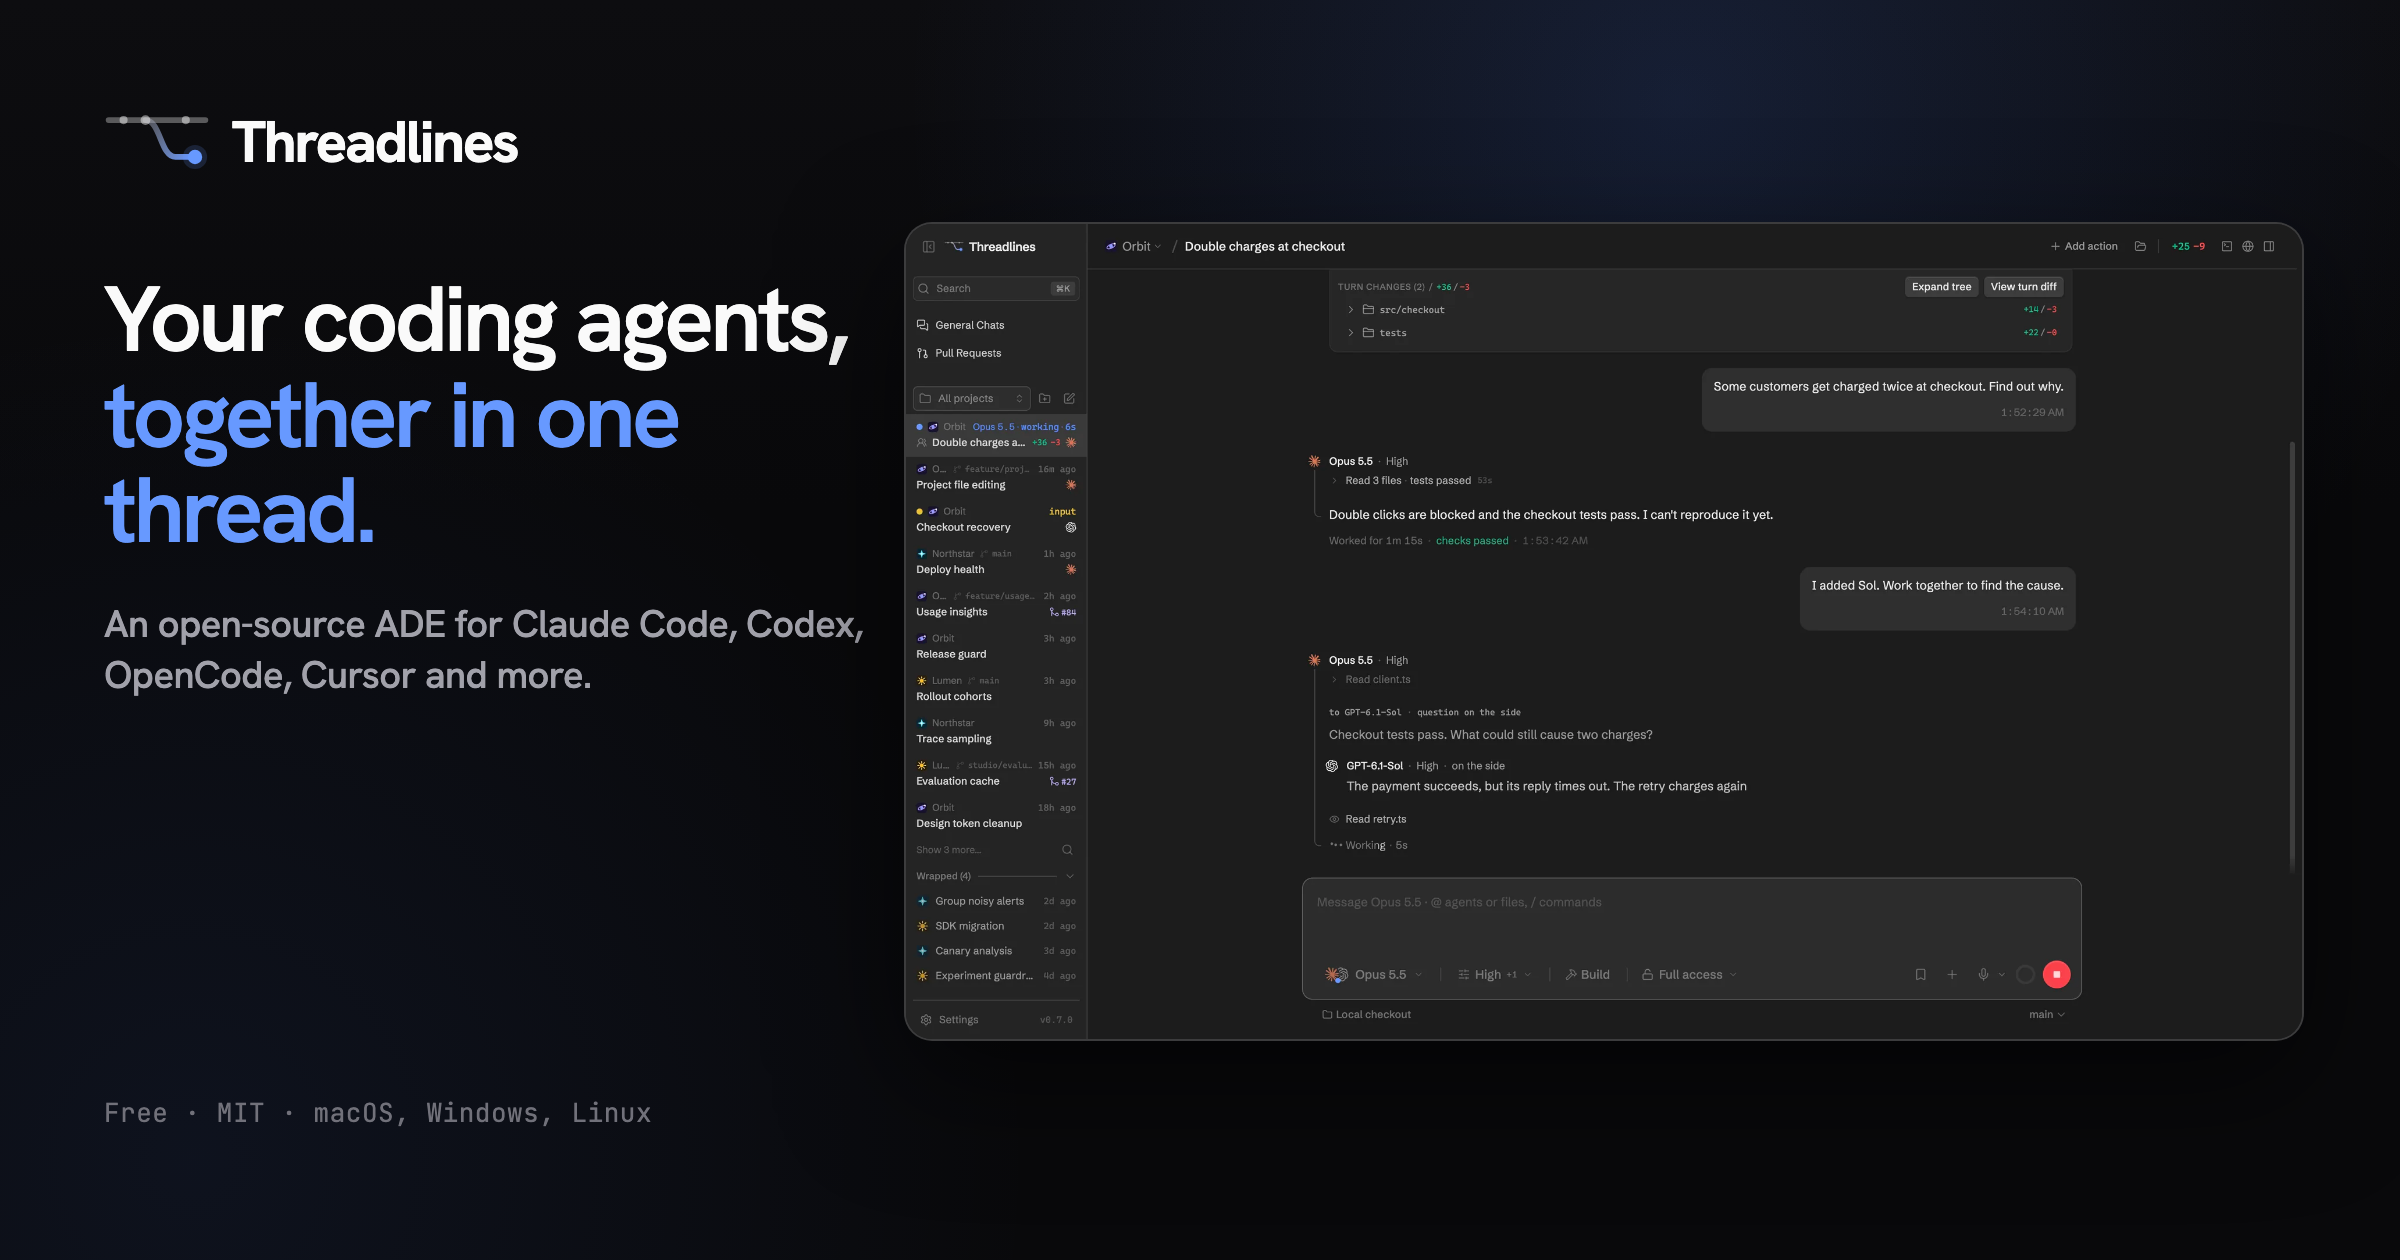
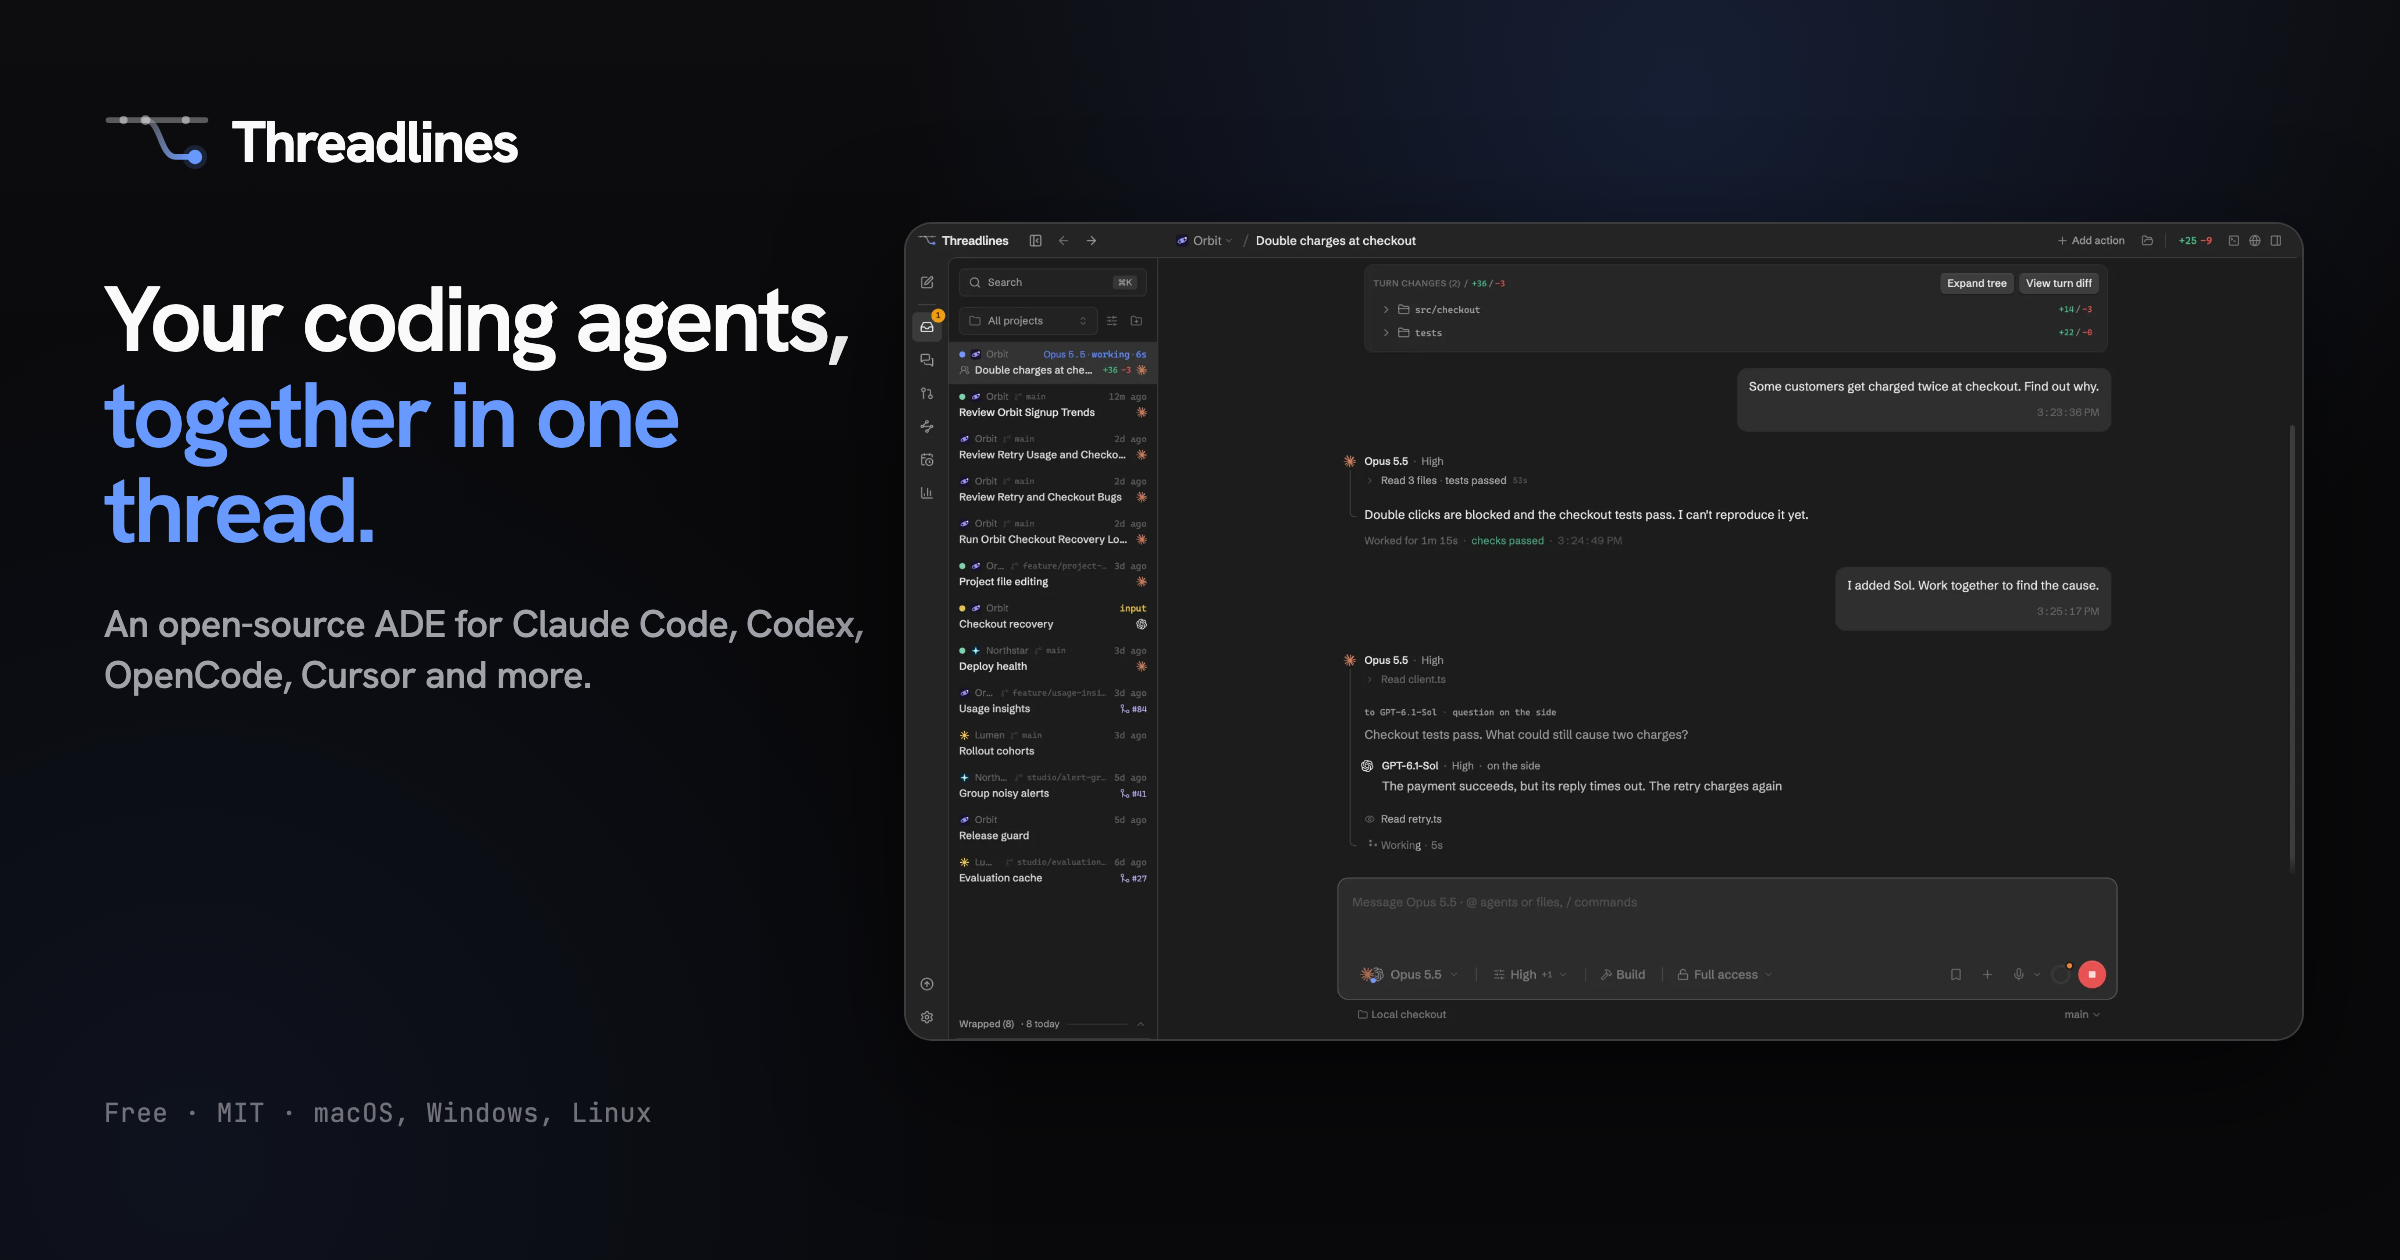
docs: the README picture and GitHub pages show 0.8.0 (#715)
* docs: the README picture and GitHub pages show 0.8.0

The README header (also the site's social card) still showed the 0.7 layout:
two-agents.webp was retaken with the left bar in #691, but og.png was never
re-rendered from og-card.html. Re-render it, and add a 1280x640 crop for
GitHub's social preview, which is uploaded by hand in repo settings.

While here, the other GitHub-facing pages that fell behind:
- KEYBINDINGS.md was missing a dozen default shortcuts (find, right panel,
  sidebar, Fleet, Scheduled, back/forward, thread and model jumps), pointed at
  ~/.threadlines/keybindings.json instead of userdata/, and linked the old
  location of DEFAULT_KEYBINDINGS. It now matches packages/shared and names
  Settings › Keybindings and the modelPickerOpen context key.
- The bug form's version and environment hints asked for Vite+ 0.2.4 and an
  unsupported Node 24.10; they now ask for what an app user can see.
- The Docker guide's pin example uses 0.8.0 instead of 0.3.3.

* docs(brand): rebuild the X banner from the 0.8.0 screenshot

x-banner-workspace.png still used the 0.7 capture of two-agents.webp. Same
crop as before (Opus asking Sol on the side); the left bar's icons sit above
that band.

* docs(brand): X banner puts the words left and the app right

The banner showed the middle of the window, where the new left bar is an
empty strip because its icons sit higher up. It now matches og-card.html:
[…]

diff --git a/docs/brand/social/x-banner-workspace.html b/docs/brand/social/x-banner-workspace.html
@@ -2,7 +2,12 @@
 <html>
   <head>
     <meta charset="utf-8" />
-    <!-- The X profile banner. Render at 1500x500 with device scale 2 and save as x-banner-workspace.png. -->
+    <!--
+      The X profile banner. Render at 1500x500 with device scale 2 and save as
+      x-banner-workspace.png. Re-render whenever two-agents.webp changes; Will uploads it
+      to X by hand. Words on the left and the app on the right, like og-card.html. X puts
+      the profile picture over the bottom-left corner, so that corner stays empty.
+    -->
     <link
       href="https://fonts.googleapis.com/css2?family=Hanken+Grotesk:wght@500;600;700&display=swap"
       rel="stylesheet"
@@ -39,14 +44,12 @@
       }
       .masthead {
         position: absolute;
-        top: 34px;
-        right: 62px;
+        top: 56px;
         left: 62px;
         display: flex;
-        height: 52px;
-        align-items: center;
-        justify-content: space-between;
-        gap: 32px;
+        width: 470px;
+        flex-direction: column;
+        gap: 26px;
       }
       .brand {
         display: flex;
@@ -65,20 +68,21 @@
       }
       .positioning {
         color: rgba(250, 250, 250, 0.7);
-        font-size: 22px;
+        font-size: 34px;
         font-weight: 500;
-        letter-spacing: -0.018em;
-        white-space: nowrap;
+        line-height: 1.18;
+        letter-spacing: -0.025em;
       }
       .positioning strong {
+        display: block;
         color: oklch(0.7 0.17 264);
         font-weight: 600;
       }
       .window {
         position: absolute;
-        left: 62px;
-        top: 106px;
-        width: 1376px;
+        left: 560px;
+        top: 48px;
+        width: 878px;
         border-radius: 14px 14px 0 0;
         overflow: hidden;
         border: 1px solid rgba(255, 255, 255, 0.16);
@@ -90,12 +94,11 @@
       .window {
         bottom: 0;
       }
-      /* Shows the middle of the shot: Opus asking GPT-6.1-Sol on the side, and Sol's answer. */
+      /* Shows the top of the shot: the left bar, then Opus asking GPT-6.1-Sol on the side and Sol's answer. */
       .window img {
         display: block;
         width: 100%;
         height: auto;
-        margin-top: -300px;
       }
     </style>
   </head>

diff --git a/docs/brand/social/og-card.html b/docs/brand/social/og-card.html
@@ -2,7 +2,12 @@
 <!--
   The site's social card (apps/marketing/public/og.png) and the README header.
   Render at 2400x1260, device scale 1, and save over og.png. The screenshot is the
-  full-window studio capture (public/Screenshots/app/two-agents.webp).
+  full-window studio capture (public/Screenshots/app/two-agents.webp), so re-render
+  whenever that capture changes.
+
+  GitHub's social preview (repo Settings › General › Social preview, uploaded by
+  hand) is the same render cropped to 2400x1200 around the middle and scaled to
+  1280x640: docs/brand/social/github-social-preview.png.
 -->
 <html lang="en">
   <head>

diff --git a/KEYBINDINGS.md b/KEYBINDINGS.md
@@ -1,8 +1,8 @@
 # Keybindings
 
-Threadlines reads keybindings from:
+Change shortcuts in **Settings › Keybindings**, or edit the file it saves to:
 
-- `~/.threadlines/keybindings.json`
+- `~/.threadlines/userdata/keybindings.json` (under `THREADLINES_HOME` if you set it)
 
 The file must be a JSON array of rules:
 
@@ -23,16 +23,31 @@ See the full schema for more details: [`packages/contracts/src/keybindings.ts`](
   { "key": "mod+d", "command": "terminal.split", "when": "terminalFocus" },
   { "key": "mod+n", "command": "terminal.new", "when": "terminalFocus" },
   { "key": "mod+w", "command": "terminal.close", "when": "terminalFocus" },
+  { "key": "mod+f", "command": "terminal.find", "when": "terminalFocus" },
+  { "key": "mod+d", "command": "diff.toggle", "when": "!terminalFocus" },
   { "key": "mod+k", "command": "commandPalette.toggle", "when": "!terminalFocus" },
   { "key": "mod+n", "command": "chat.new", "when": "!terminalFocus" },
   { "key": "mod+shift+o", "command": "chat.new", "when": "!terminalFocus" },
   { "key": "mod+shift+n", "command": "chat.newLocal", "when": "!terminalFocus" },
+  { "key": "mod+f", "command": "chat.find", "when": "!terminalFocus" },
+  { "key": "mod+shift+m", "command": "modelPicker.toggle", "when": "!terminalFocus" },
   { "key": "mod+s", "command": "composer.stash", "when": "!terminalFocus" },
-  { "key": "mod+o", "command": "editor.openFavorite" }
+  { "key": "mod+o", "command": "editor.openFavorite" },
+  { "key": "mod+b", "command": "sidebar.toggle", "when": "!terminalFocus" },
+  { "key": "mod+shift+f", "command": "navigate.fleet", "when": "!terminalFocus" },
+  { "key": "mod+shift+s", "command": "navigate.scheduled", "when": "!terminalFocus" },
+  { "key": "mod+[", "command": "navigate.back", "when": "!terminalFocus" },
+  { "key": "mod+]", "command": "navigate.forward", "when": "!terminalFocus" },
+  { "key": "mod+shift+[", "command": "thread.previous" },
+  { "key": "mod+shift+]", "command": "thread.next" }
 ]
 ```
 
-For most up to date defaults, see [`DEFAULT_KEYBINDINGS` in `apps/server/src/keybindings.ts`](apps/server/src/keybindings.ts)
+`mod+1` through `mod+9` run `thread.jump.1` through `thread.jump.9`. While the
+model picker is open (`"when": "modelPickerOpen"`), the same keys run
+`modelPicker.jump.1` through `modelPicker.jump.9` instead.
+
+The source of truth is [`DEFAULT_KEYBINDINGS` in `packages/shared/src/keybindings.ts`](packages/shared/src/keybindings.ts).
 
 ## Configuration
 
@@ -52,11 +67,22 @@ Invalid rules are ignored. Invalid config files are ignored. Warnings are logged
 - `terminal.split`: split terminal (in focused terminal context by default)
 - `terminal.new`: create new terminal (in focused terminal context by default)
 - `terminal.close`: close/kill the focused terminal (in focused terminal context by default)
+- `terminal.find`: search the focused terminal's output
+- `diff.toggle`: show or hide the panel on the right of a thread (changes, browser, files and the other tabs)
 - `commandPalette.toggle`: open or close the global command palette
 - `chat.new`: create a new chat thread where the "Start in" setting says (Settings › Threads, default `local`). With `local`, a thread started from one in a worktree stays in that worktree
 - `chat.newLocal`: create a new chat thread for the active project from the "Start in" setting alone, never continuing the active thread's worktree
+- `chat.find`: find text in the current chat
+- `modelPicker.toggle`: open or close the composer's model picker
+- `modelPicker.jump.1` … `modelPicker.jump.9`: pick the model at that position in the open model picker
 - `composer.stash`: stash the composer's prompt for later; with an empty composer, open the stash list
 - `editor.openFavorite`: open current project/worktree in the last-used editor
+- `sidebar.toggle`: show or hide the sidebar list next to the left bar
+- `navigate.fleet`: open Fleet
+- `navigate.scheduled`: open Scheduled
+- `navigate.back` / `navigate.forward`: go back or forward through the places you've opened
+- `thread.previous` / `thread.next`: open the thread above or below the current one in the sidebar
+- `thread.jump.1` … `thread.jump.9`: open the thread at that position in the sidebar
 - `script.{id}.run`: run a project script by id (for example `script.test.run`)
 
 ### Key Syntax
@@ -82,6 +108,7 @@ Currently available context keys:
 
 - `terminalFocus`
 - `terminalOpen`
+- `modelPickerOpen`
 
 Supported operators:
 

diff --git a/docker/README.md b/docker/README.md
@@ -57,7 +57,7 @@ docker rm -f threadlines
 ```
 
 Your data lives in the volume, so this is safe. Pin a version tag
-(for example `ghcr.io/threadlines/threadlines:0.3.3`) if you prefer
+(for example `ghcr.io/threadlines/threadlines:0.8.0`) if you prefer
 updates on your own schedule.
 
 ## Reaching it from outside your network
